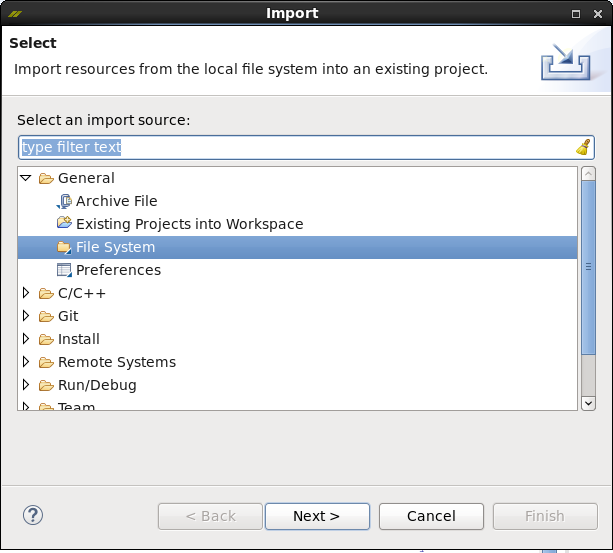
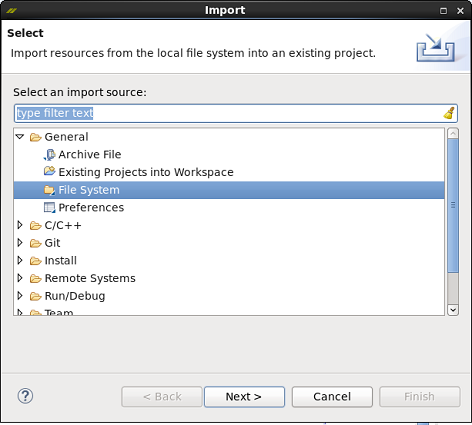
Resize of images

diff --git a/GUIREADME.md b/GUIREADME.md
@@ -14,19 +14,19 @@ The steps described in this document use the hello example application as a refe
 
 - In the *Templates* page, select **Empty Application**
 
-![empty application select](./img/empty_app.png =472x200)
+![empty application select](./img/empty_app.png)
 
 - In the new project, right-click on the **src** folder, and select **Import...** to start the file import Wizard
 
 - In the *Import* wizard, select **General > File Systems** and click **Next**
 
-![file system select](./img/filesystem.png =472x400)
+![file system select](./img/filesystem.png)
 
 - Browse to the *src* directory for the *hello example design*
 
 - Select all of the source files and click **Finish**
 
-![source file select](./img/src_select.png =472x400)
+![source file select](./img/src_select.png)
 
 - The *Project Explorer* should look like
 
@@ -44,7 +44,7 @@ The steps described in this document use the hello example application as a refe
 
 - Select the *xcl.c* and *xcl.h* files and click **Finish**
 
-![library files](./img/lib_files.png =472x400)
+![library files](./img/lib_files.png)
 
 - Select the project in the **Project Explorer**
 
@@ -52,7 +52,7 @@ The steps described in this document use the hello example application as a refe
 
 - Select **C/C++ Build > Settings**
 
-![settings](./img/settings.png =472x400)
+![settings](./img/settings.png)
 
 - In the **Configuration** menu, select *[All Configurations]*
 
@@ -60,13 +60,13 @@ The steps described in this document use the hello example application as a refe
 
 - In the **Include paths (-I)**, click **Add**
 
-![Include Path](./img/add_path.png =472x200)
+![Include Path](./img/add_path.png)
 
 - In the **Project Settings** window, click **Add HW Function...***
 
 - Select *krnl_hello* and click **OK**. This will add the accelerator function for the *hello example* to the project
 
-![hardware function](./img/hardware_function.png =472x400)
+![hardware function](./img/hardware_function.png)
 
 ### Configuring the Build Environment
 
@@ -74,7 +74,7 @@ Once the project has been setup, the build configuration has to be updated to co
 
 - Open the **Run Configuration** panel
 
-![Run Configuration](./img/build_config.png =472x400)
+![Run Configuration](./img/build_config.png)
 
 - Click the **Environment** tab
 
